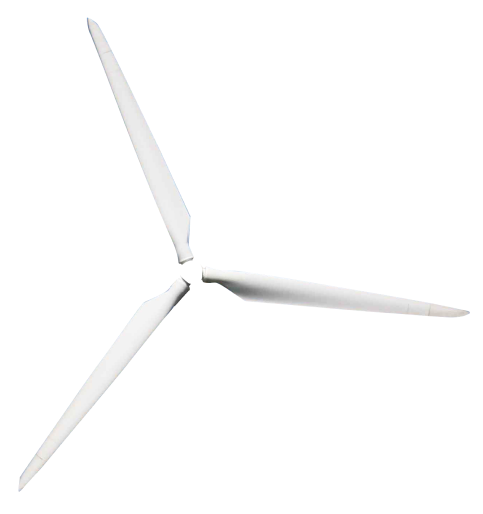
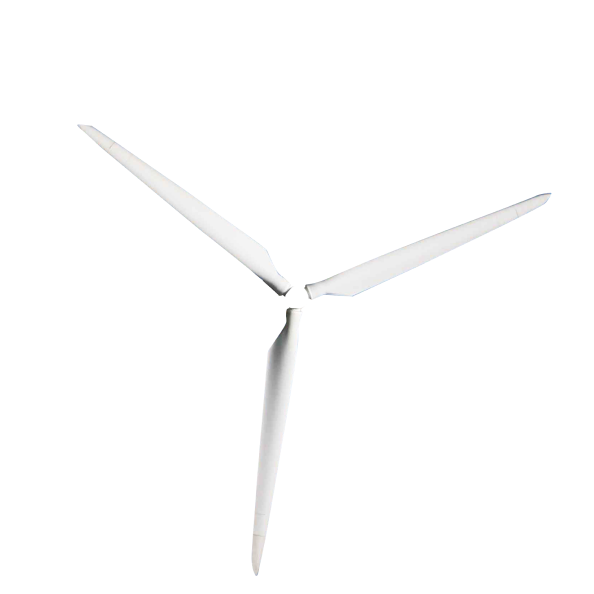
Добавил анимацию ветряка (#2)

diff --git a/index.js b/index.js
@@ -1,6 +1,7 @@
 const buttonContainer = document.querySelector(".button_container");
 const fillHover = document.querySelector(".fill_hover");
 const fillHoverSpan = document.querySelector(".fill_hover_span");
+const blades = document.querySelector(".windmill_blades");
 
 buttonContainer.addEventListener("mouseover", function () {
   fillHover.style.left = "0";
@@ -11,4 +12,10 @@ buttonContainer.addEventListener("mouseout", function () {
   fillHoverSpan.style.left = "50%";
 });
 
-buttonContainer.addEventListener("click", function () {});
+buttonContainer.addEventListener("click", function () {
+  blades.classList.add("windmill_blades_spin_back");
+  setTimeout(() => {
+    blades.classList.remove("windmill_blades_spin_back");
+    blades.classList.add("windmill_blades_spin");
+  }, 1000);
+});

diff --git a/styles.css b/styles.css
@@ -142,8 +142,24 @@ body {
 }
 .windmill_blades {
   position: absolute;
-  bottom: 380px;
-  right: 20px;
+  bottom: 330px;
+  right: 12px;
+  transform: rotate(0deg);
+  transition: transform 5s ease-in-out;
+}
+.windmill_blades_spin {
+  position: absolute;
+  bottom: 330px;
+  right: 12px;
+  transform: rotate(-720deg);
+  transition: transform 5s ease-in-out;
+}
+.windmill_blades_spin_back {
+  position: absolute;
+  bottom: 330px;
+  right: 12px;
+  transform: rotate(20deg);
+  transition: transform 1s ease-in-out;
 }
 
 .wave_container {
@@ -163,7 +179,7 @@ body {
   transform: rotate(-3deg);
 }
 
-@media (max-width: 1920px) {
+@media (min-width: 1920px) {
   .wave_container {
     height: 600px;
   }
